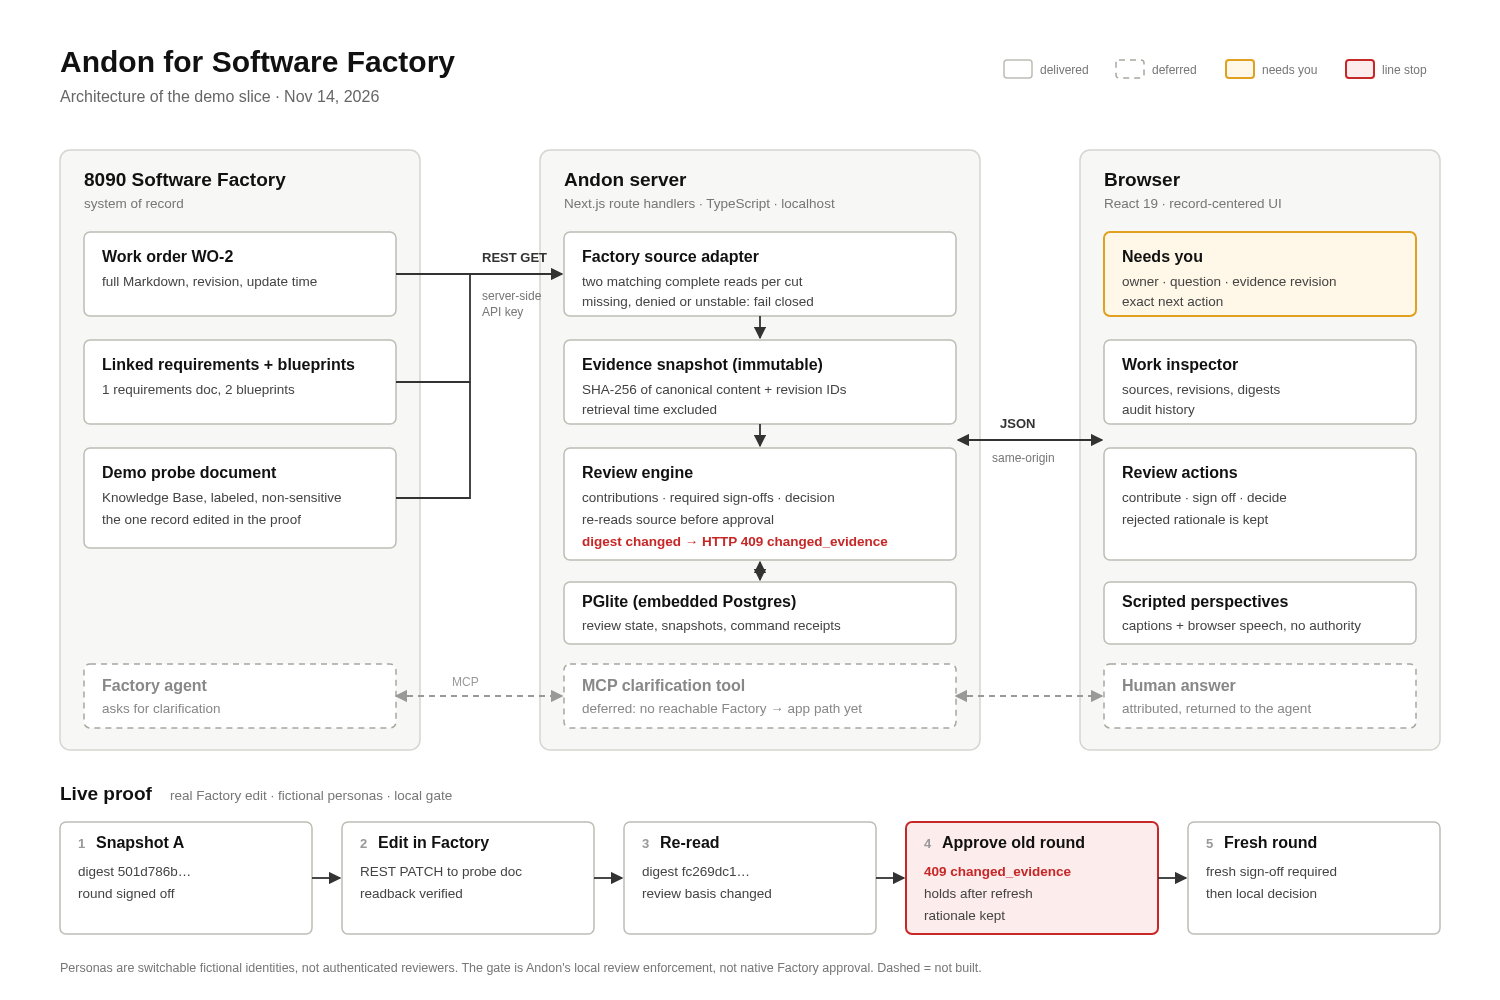
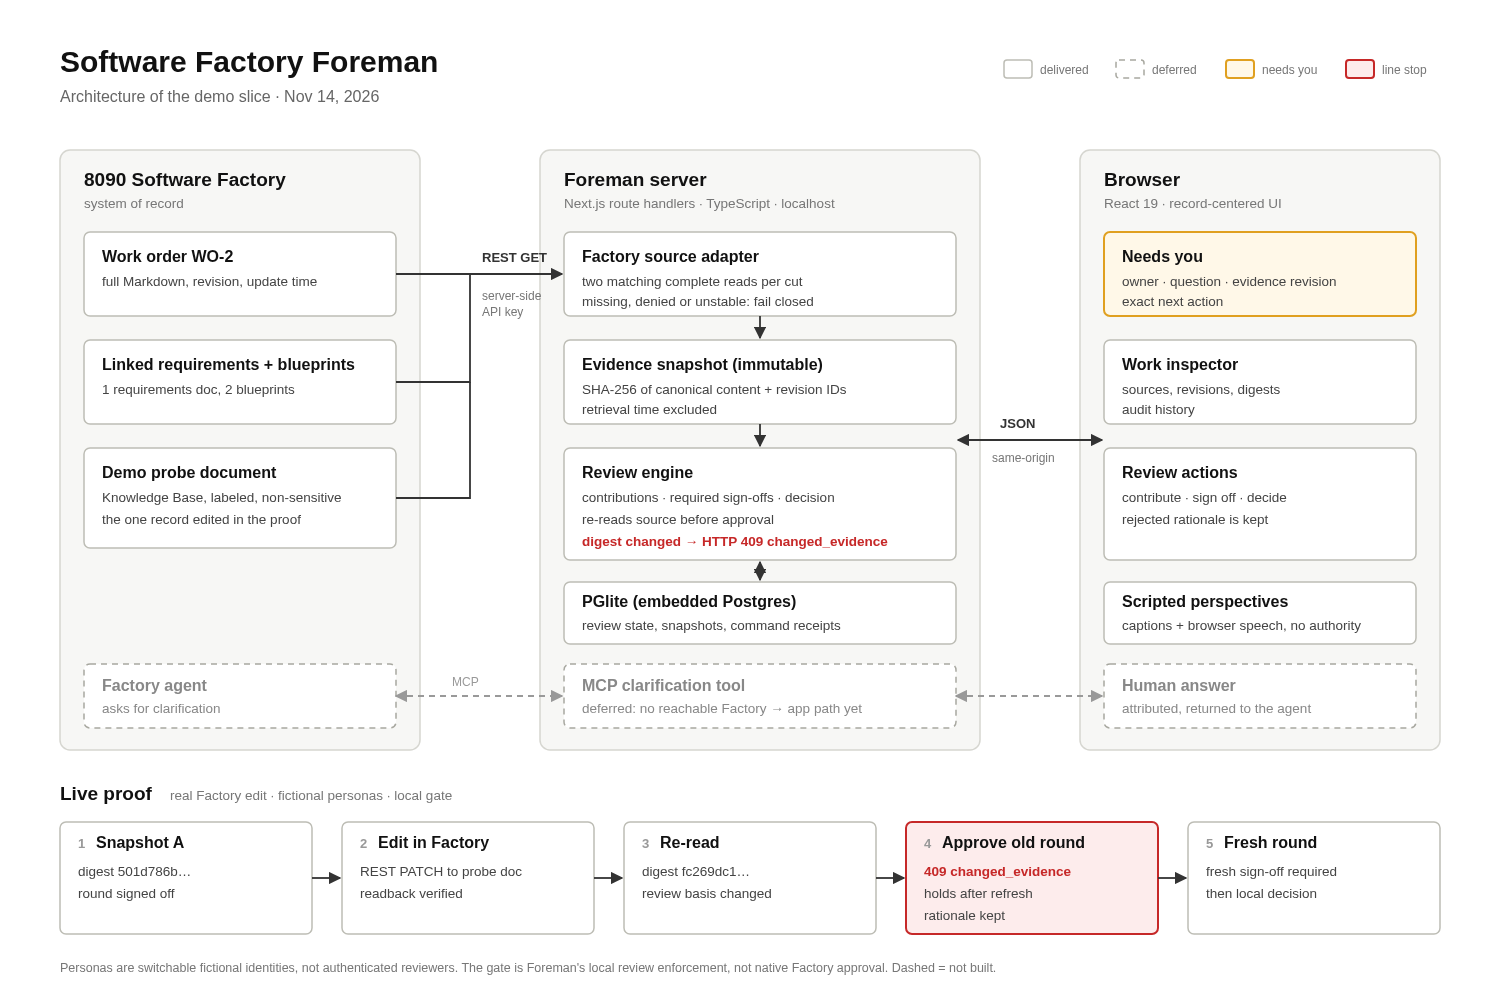
docs: rename project to Software Factory Foreman

Changed region(s): [[0.0307, 0.031, 0.3067, 0.093], [0.368, 0.961, 0.6747, 0.992], [0.368, 0.155, 0.46, 0.186]]

diff --git a/README.md b/README.md
@@ -1,6 +1,6 @@
-# Andon for Software Factory
+# Software Factory Foreman
 
-An andon cord for agent work. Shows who's needed and why. Rejects sign-off when the evidence changes.
+Every sign-off gets a SHA-256. Change the source in Software Factory and the old approval gets a 409.
 
 Built at EVOLVE: 8090 AI Hackathon, Nov 13–14, 2026.
 
